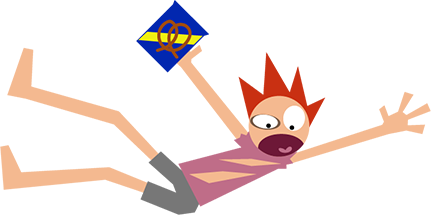
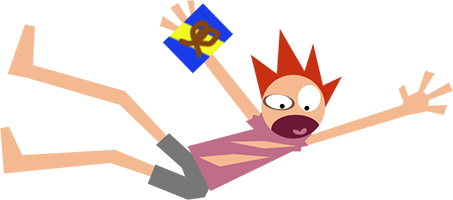
marc edits 4.1
1. resized airplane, cake, clothesfront
2. added divs for cake, airplane
3.replaced bg

Changed region(s): [[0.0, 0.0, 1.0, 0.96], [0.3619, 0.96, 0.3921, 0.99], [0.3318, 0.93, 0.3619, 0.96]]

diff --git a/longscroll.css b/longscroll.css
@@ -37,9 +37,10 @@ animation: 10s waves ease-in-out infinite;
 
 body{
   height:10000px;
-background-image:
+/*background-image:
 linear-gradient(to bottom, #154591 0%, #7facf4 100%)
-;
+;*/
+background-image: url('img/fullbg.png');
 background-repeat:
 repeat;
 background-position:
@@ -60,28 +61,42 @@ top left;
     position:fixed;
   width:2195px;
   height:800px;
-  top:0px;
+  top:-200px;
    background: url('img/dragon.png')0 0;
   margin-left:-2500px;
 }
 
-
-#parallax_wrap{
-  height: 100%;
-  width: 100%;
-  background-color: red;
+  #airplane{
+    position:fixed;
+  width:1886px;
+  height:1000px;
+  top:-100px;
+   background: url('img/airplane.png')0 0;
+  margin-right:-5000px;
 }
 
-h1, h4{
+ #clothes{
+	position:absolute;
+  width:978px;
+  height:1100px;
+   background: url('img/clothesfront.png')0 0;
+ top:7500px;
+  margin-left:100px;
+}
+
+ #cake {
+    position:absolute;
+  width:956px;
+  height:600px;
+   background: url('img/cake.png')0 0;
+ top:9426px;
+  margin-left:100px;
+}
+
+
+
+h1, h4 {
   text-align: center;
+  color:#ededed;
   font-family:'Oswald', sans-serif;
 }
-/*
-#wrapper{
-  border:0 solid red;
-  width:800px;
-  height:10000px;
-  background-repeat: no-repeat;
-  background-position: 0 400px;
-}
-*/

diff --git a/index.html b/index.html
@@ -13,19 +13,19 @@
   </head>
   <body>
 <h1>This is Phil. Unfortunately, he's falling from the sky for some reason. Scroll down to see his fate!</h1>
-<!-- make smaller pngs-- >
 
 <!--<div class="airplane">airplane</div>
 <div class="building 1">building1</div>
 <div class="building 2">building2</div>
-<div class="vert_parallax">clothes front</div>
-<div class="vert_parallax">clothes back</div>
-<div class="vert_parallax">clothesline</div>
+<div id="clothes"></div>
 <div class="vert_parallax">cake</div> -->
 
     <div id="wrapper">
-    <h1 id="fallingphil"></h1>
+    <div id="fallingphil"></div>
     <div id="dragon"></div>
+    <div id="airplane"></div>
+    <div id="clothes"></div>
+    <div id="cake"></div>
     </div>
 
    <!-- <script type="text/javascript">
@@ -43,11 +43,18 @@
     });
 });
 </script>
+<script type="text/javascript">
+	$(window).scroll(function() {
+    $("div#airplane").css({
+        "right": $(window).scrollTop() + "px"
+    });
+});
+</script>
 
     <script type="text/javascript" src="longscroll.js">
     </script>
 <footer>
-  <h4> &copy; 2017  <a href="https://gitmarct.github.io/art3870s17/" target="_blank"> Marc Vicente</a></h4>
+  <h4> &copy; 2017 Marc Vicente</h4>
 </footer>
 </body>
 </html>

diff --git a/longscroll.js b/longscroll.js
@@ -13,31 +13,30 @@ $(document).ready(function(){
   
     
     if(fromTop > 2000 ){
-       // if we have scrolled MORE than 2000 pixels use this image
-      
+    
       $("#fallingphil").css({
            "background" : "url('img/phil1.5.png')"
            });
       
-      
-    } else if(fromTop > 5100){
+    }
     
+  else if(fromTop > 5100){
      $("#fallingphil").css({
            "background" : "url('img/phil2.png')"
            });
     
     }
+    
+    else if(fromTop > 7700){
+     $("#fallingphil").css({
+           "background" : "url('img/phil3.png')"
+           });
+    
+    }
     else {
-      // else if we have scrolled LESS than 3000 pixels use this image
-      
-      //$("#wrapper").css({"border":"1px solid black"});
-      //$("body").css({"background-color":"white"});
-      
       $("#fallingphil").css({
          "background" : "url('img/phil.png')"
        });
-     // $("#fallingphil").text("https://jsbin.com/yibujax/3/edit?js,output");
-      
       
     }//end if statement
     
